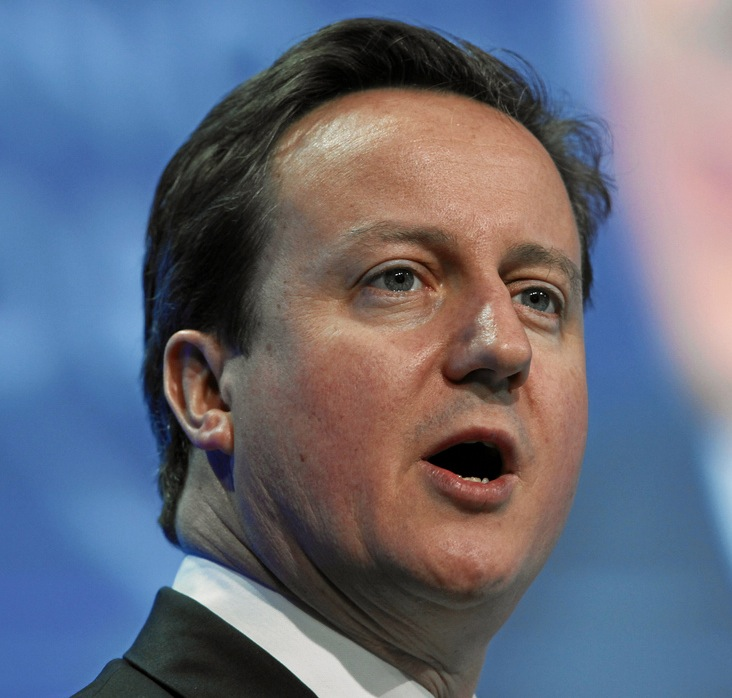
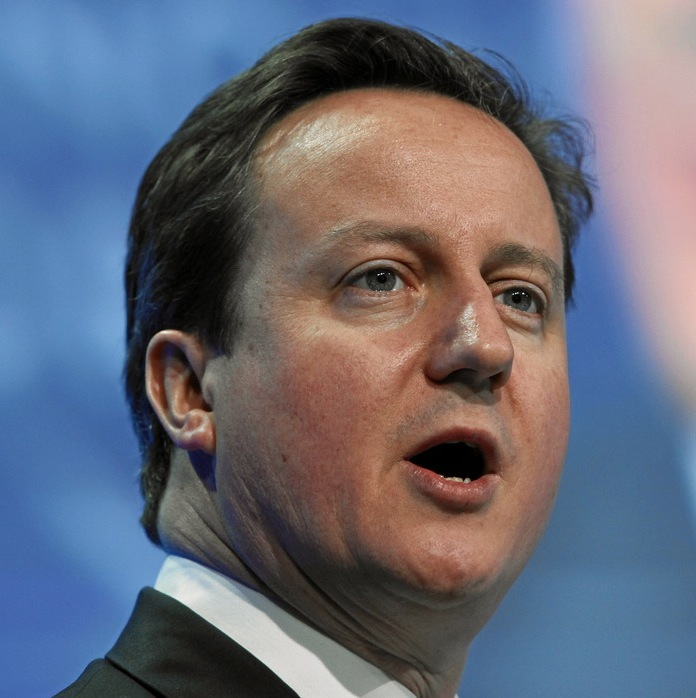
Abt and Credits sliders half-working
they don't autoload on page-load anymore, but they default to "show"
instead of to "hide"

diff --git a/main.js b/main.js
@@ -16,9 +16,9 @@ function print_aphorism() {
 // select and print a photo for the pol_image field
 
 var photo_array = [
-		'<img src="cameron.jpg" alt="David Cameron" height="349" width="366">',
-		'<img src="miliband.jpg" alt="Ed Miliband" height="349" width="366">',
-		'<img src="cameron2.jpg">',
+		'<img src="cameron.jpg" alt="David Cameron" height="366" width="366">',
+		'<img src="miliband.jpg" alt="Ed Miliband" height="366" width="366">',
+		'<img src="cameron2.jpg" alt="David Cameron" height="366" width="366">',
 		];
 
 var photo_counter = Math.floor(Math.random() * photo_array.length);
@@ -39,32 +39,31 @@ $(function(){
 
 });
 
-/* $(function(){
-	$("#refresh_button").click(function(){
-		var photo_counter = photo_counter + 1;
-		var photo = lemon_array[photo_counter];
-		$( "#pol_image" ).text(print_photo());
-	});
-	$( "#refresh_button" ).trigger( "click" );
-
-function print_photo() {
-	document.getElementById("pol_image").innerHTML = photo;
-    };
-
-}); */
-
 // on click, the 'photo credits' button slides out the details of any photo credits
 
-$(function(){
+/* $(function(){
 	$("#slider_button").click(function(){
 		$( "#credits" ).slideToggle( "slow" );
 	});
 	$( "#slider_button" ).trigger( "click" );
-});
+}); */
 
-$(function(){
+
+/* $(function(){
 	$("#about_button").click(function(){
 		$( "#about_zurau" ).slideToggle( "slow" );
 	});
 	$( "#about_button" ).trigger( "click" );
+}); */
+
+$(function() {
+	$("#slider_button").click(function() {
+		$("#credits").slideToggle("slow");
+	});
+});
+
+$(document).ready(function() {
+	$("#about_button").click(function() {
+		$("#about_zurau").slideToggle("slow");
+	});
 });
